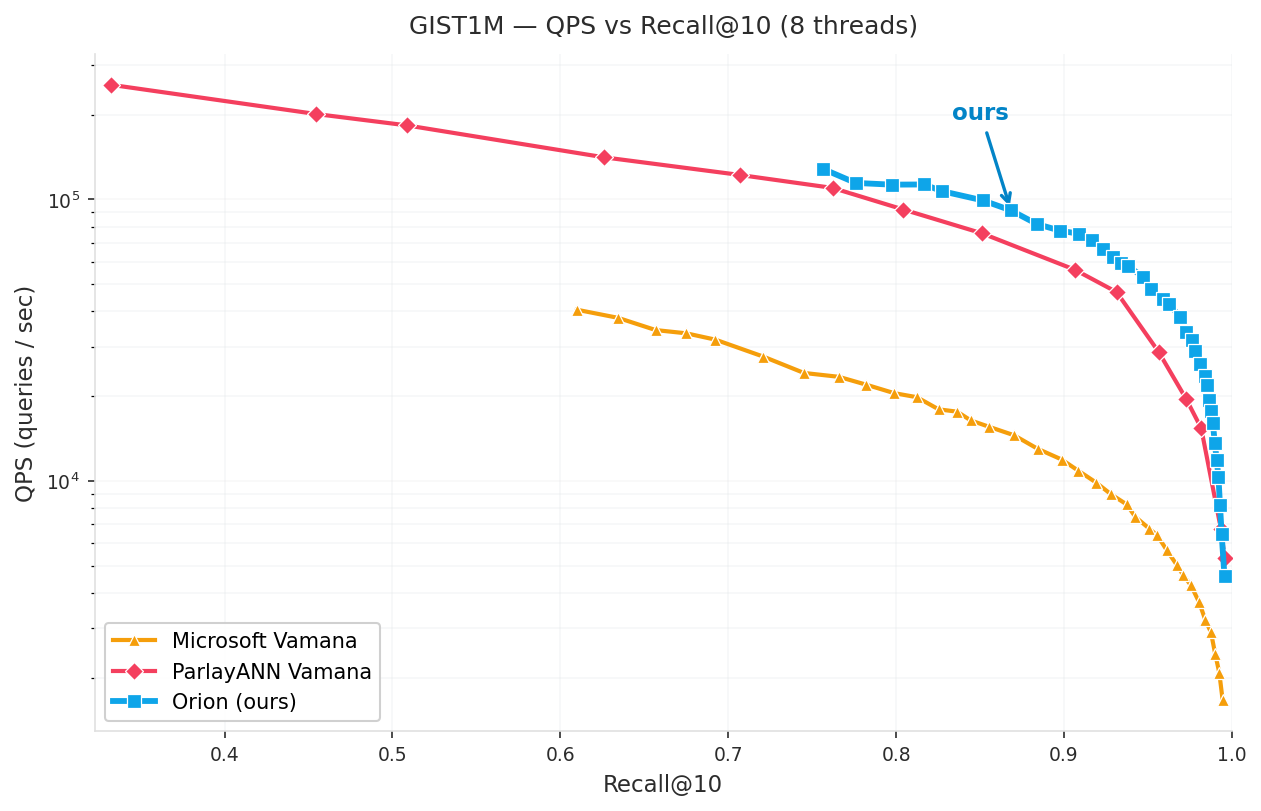
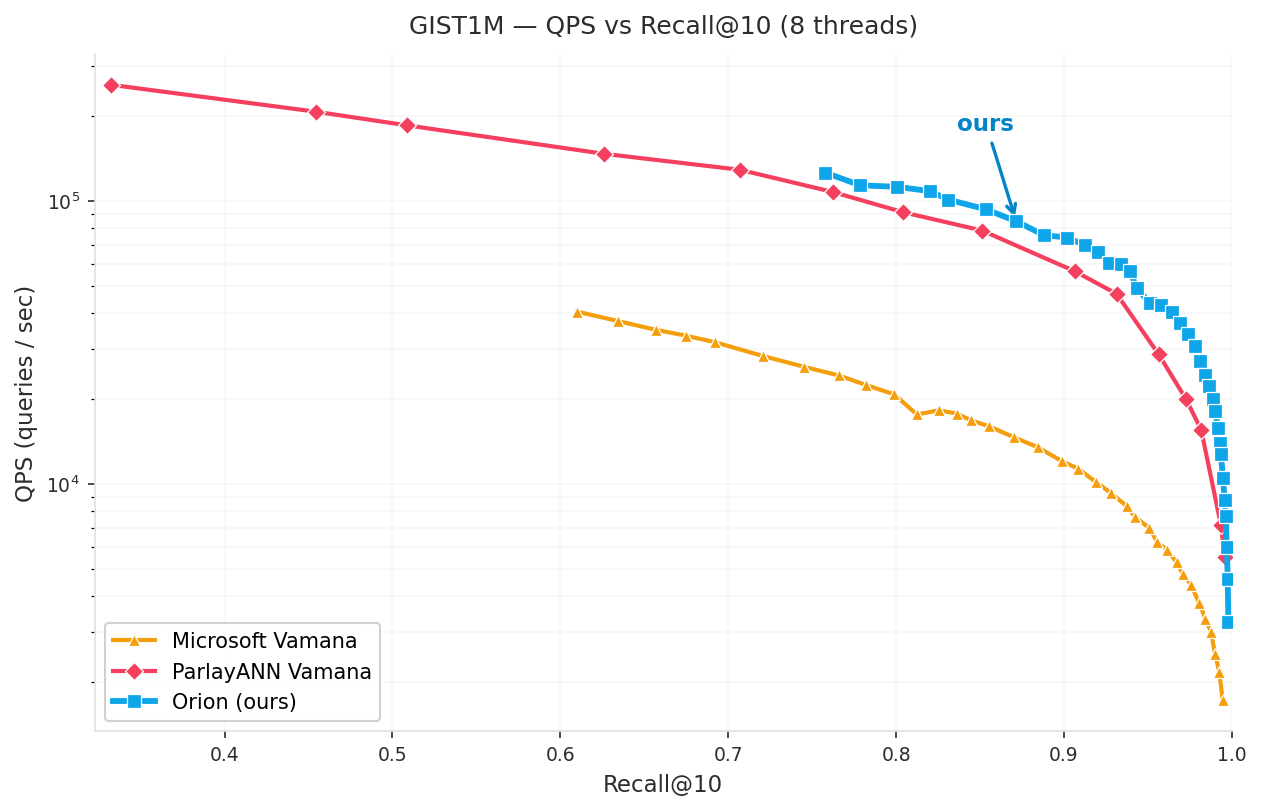
Fix: the wroung call for convergence.
**convergence.rs**: refine the wrong comment in convergence logic, which adapts to
calibration and convergence plotting logic defined in `calibrate.rs`. The before
input was in `usize` recording the number of admission this round, but current
input is just a `bool` in `usize` type indicating whether exists an admission this
round.

**in_mem_search.rs**: refine the logic in computing the value of `prev_admmited`,
which should be boolean indicating whether an admission occurring in this round
(1 for true, 0 for false).

diff --git a/orion/src/algorithm/search/convergence.rs b/orion/src/algorithm/search/convergence.rs
@@ -58,13 +58,13 @@ impl SearchConvergenceChecker {
         self.reset();
     }
 
-    /// Feed the number of admitted candidates from this expansion step.
+    /// Feed whether admitted happens from this expansion step.
     /// Returns true if currently converged (low admission rate).
     #[inline]
-    pub fn update(&mut self, num_admitted: usize) -> bool {
+    pub fn update(&mut self, is_admitted: usize) -> bool {
         self.total_steps += 1;
 
-        let val = if num_admitted > 0 { 1u8 } else { 0u8 };
+        let val = if is_admitted > 0 { 1u8 } else { 0u8 };
 
         // Evict oldest entry if window is full.
         if self.count >= self.window_size {

diff --git a/orion/src/algorithm/search/in_mem_search.rs b/orion/src/algorithm/search/in_mem_search.rs
@@ -384,7 +384,7 @@ where
                 scratch.dist_buffer.set_len(hop_start + w);
                 w
             };
-            prev_admitted = hop_admits;
+            prev_admitted = hop_admits.max(1);
 
             // Per-phase counter split for diagnostic printing.
             if converged {
